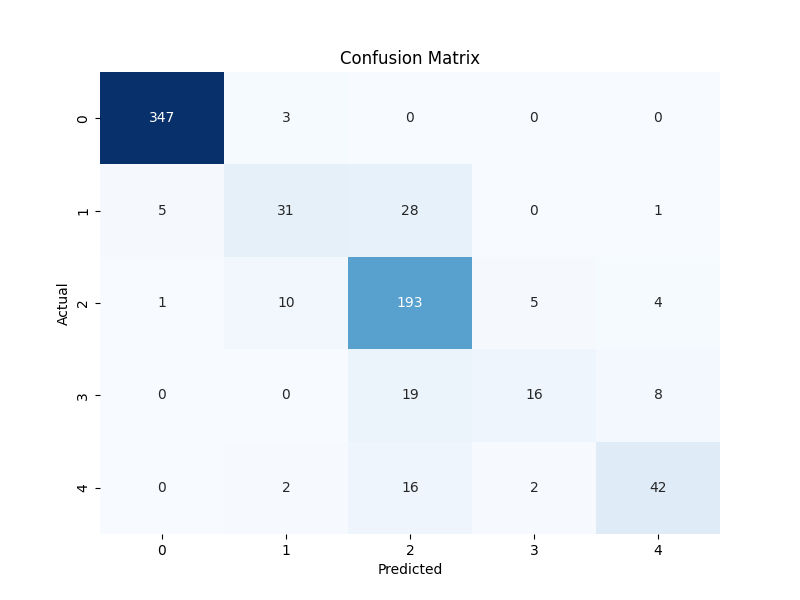
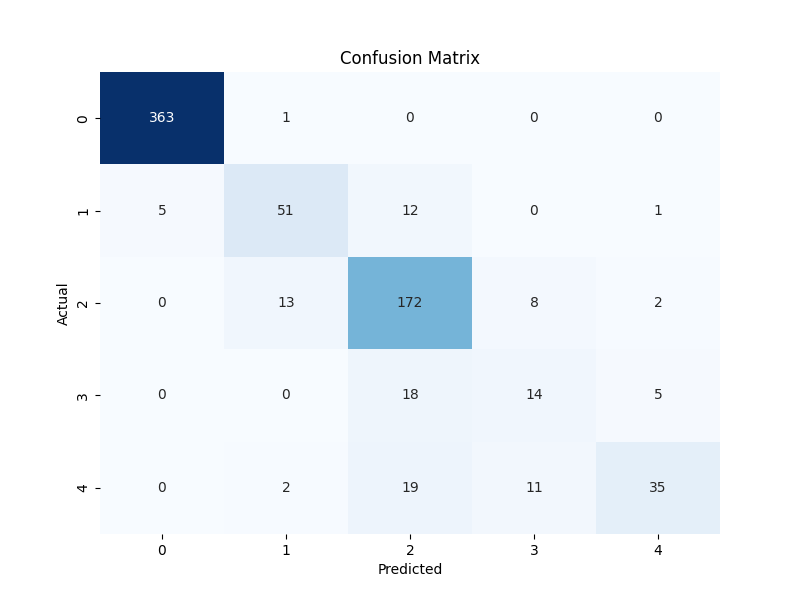
LAST

diff --git a/scripts/ensemble_predictions.py b/scripts/ensemble_predictions.py
@@ -1,0 +1,214 @@
+#!/usr/bin/env python3
+"""
+Ensemble predictions from multiple fold models.
+Supports both averaging probabilities and applying optimized thresholds.
+
+Usage:
+    poetry run python scripts/ensemble_predictions.py [--test]
+"""
+import argparse
+import os
+import json
+from pathlib import Path
+
+import numpy as np
+import pandas as pd
+import keras
+from tqdm import tqdm
+from scipy.optimize import minimize
+from sklearn.metrics import cohen_kappa_score
+
+from src.inference import load_and_preprocess, tta_predict
+# Import custom layers/losses so they're registered before model loading
+from src.models import layers  # noqa: F401 - registers GeMPooling2D, ScaleLayer
+from src.models import losses  # noqa: F401 - registers CategoricalFocalCrossentropy
+
+
+def optimize_thresholds(y_true, y_pred_proba):
+    """
+    Optimize decision thresholds for ordinal classification.
+    Converts probabilities to expected value, then finds optimal cutoffs.
+    """
+    # Convert probabilities to expected value (ordinal score)
+    ordinal_scores = np.sum(y_pred_proba * np.arange(5), axis=1)
+    
+    def neg_qwk(thresholds):
+        thresholds = np.sort(thresholds)
+        preds = np.digitize(ordinal_scores, thresholds)
+        return -cohen_kappa_score(y_true, preds, weights='quadratic')
+    
+    # Initial thresholds (evenly spaced)
+    init_thresholds = [0.5, 1.5, 2.5, 3.5]
+    
+    result = minimize(
+        neg_qwk,
+        init_thresholds,
+        method='Nelder-Mead',
+        options={'maxiter': 1000}
+    )
+    
+    return np.sort(result.x), -result.fun
+
+
+def load_oof_predictions(output_dir: Path, n_folds: int = 5):
+    """Load and combine OOF predictions from all folds."""
+    all_oof = []
+    
+    for fold in range(n_folds):
+        fold_dir = output_dir / f"fold_{fold}"
+        oof_path = fold_dir / "oof.csv"
+        
+        if not oof_path.exists():
+            print(f"⚠ Missing OOF for fold {fold}: {oof_path}")
+            continue
+        
+        oof_df = pd.read_csv(oof_path)
+        oof_df['fold'] = fold
+        all_oof.append(oof_df)
+    
+    if not all_oof:
+        raise FileNotFoundError("No OOF predictions found!")
+    
+    return pd.concat(all_oof, ignore_index=True)
+
+
+def ensemble_test_predictions(
+    output_dir: Path,
+    test_csv: str,
+    test_images: str,
+    image_size: int = 512,
+    use_tta: bool = True,
+    n_folds: int = 5
+):
+    """Generate ensemble predictions on test set."""
+    test_df = pd.read_csv(test_csv)
+    print(f"Found {len(test_df)} test samples")
+    
+    # Load all fold models
+    models = []
+    for fold in range(n_folds):
+        model_path = output_dir / f"fold_{fold}" / "model_best.keras"
+        if model_path.exists():
+            print(f"Loading model from {model_path}")
+            models.append(keras.models.load_model(
+                model_path,
+                custom_objects={
+                    'GeMPooling2D': layers.GeMPooling2D,
+                    'ScaleLayer': layers.ScaleLayer,
+                    'CategoricalFocalCrossentropy': losses.CategoricalFocalCrossentropy,
+                    'KappaLoss': losses.KappaLoss,
+                }
+            ))
+        else:
+            print(f"⚠ Missing model for fold {fold}")
+    
+    if not models:
+        raise FileNotFoundError("No models found!")
+    
+    print(f"Loaded {len(models)} models for ensemble")
+    
+    # Predict
+    all_preds = []
+    
+    for idx, row in tqdm(test_df.iterrows(), total=len(test_df), desc="Predicting"):
+        img_path = os.path.join(test_images, f"{row['id_code']}.png")
+        
+        if not os.path.exists(img_path):
+            print(f"⚠ Image not found: {img_path}")
+            all_preds.append(np.zeros(5))
+            continue
+        
+        img = load_and_preprocess(img_path, image_size, use_ben_graham=True)
+        img = np.expand_dims(img, axis=0)
+        
+        # Average predictions from all models
+        fold_preds = []
+        for model in models:
+            if use_tta:
+                pred = tta_predict(model, img, n_augments=8)
+            else:
+                pred = model.predict(img, verbose=0)
+            fold_preds.append(pred)
+        
+        avg_pred = np.mean(fold_preds, axis=0)
+        all_preds.append(avg_pred.flatten())
+    
+    return test_df['id_code'].values, np.array(all_preds)
+
+
+def main():
+    parser = argparse.ArgumentParser(description="Ensemble predictions")
+    parser.add_argument("--output_dir", type=str, default="outputs", help="Directory with fold outputs")
+    parser.add_argument("--test", action="store_true", help="Generate test predictions (requires test images)")
+    parser.add_argument("--test_csv", type=str, default="data/test.csv")
+    parser.add_argument("--test_images", type=str, default="data/test_images")
+    parser.add_argument("--image_size", type=int, default=512)
+    parser.add_argument("--no_tta", action="store_true", help="Disable TTA for faster inference")
+    args = parser.parse_args()
+    
+    output_dir = Path(args.output_dir)
+    
+    # Step 1: Load OOF predictions and optimize thresholds
+    print("\n" + "=" * 60)
+    print("STEP 1: Loading OOF predictions and optimizing thresholds")
+    print("=" * 60)
+    
+    oof_df = load_oof_predictions(output_dir)
+    print(f"Loaded {len(oof_df)} OOF predictions")
+    
+    # Extract probability columns if present
+    prob_cols = [col for col in oof_df.columns if col.startswith('prob_')]
+    
+    if prob_cols:
+        y_true = oof_df['diagnosis'].values
+        y_pred_proba = oof_df[prob_cols].values
+        
+        thresholds, qwk = optimize_thresholds(y_true, y_pred_proba)
+        print(f"\n📊 Optimized Thresholds: {thresholds}")
+        print(f"📊 OOF QWK with optimized thresholds: {qwk:.4f}")
+        
+        # Save thresholds
+        with open("thresholds.json", "w") as f:
+            json.dump({"thresholds": thresholds.tolist(), "qwk": qwk}, f, indent=2)
+        print("✅ Saved thresholds to thresholds.json")
+    else:
+        print("⚠ No probability columns found in OOF. Using argmax.")
+        thresholds = None
+    
+    # Step 2: Generate test predictions if requested
+    if args.test:
+        print("\n" + "=" * 60)
+        print("STEP 2: Generating ensemble test predictions")
+        print("=" * 60)
+        
+        id_codes, test_proba = ensemble_test_predictions(
+            output_dir,
+            args.test_csv,
+            args.test_images,
+            args.image_size,
+            use_tta=not args.no_tta
+        )
+        
+        # Apply thresholds or argmax
+        if thresholds is not None:
+            ordinal_scores = np.sum(test_proba * np.arange(5), axis=1)
+            predictions = np.digitize(ordinal_scores, thresholds)
+        else:
+            predictions = np.argmax(test_proba, axis=1)
+        
+        # Create submission
+        submission = pd.DataFrame({
+            'id_code': id_codes,
+            'diagnosis': predictions
+        })
+        submission.to_csv("submission.csv", index=False)
+        print(f"\n✅ Saved submission to submission.csv")
+        print(f"Prediction distribution: {pd.Series(predictions).value_counts().sort_index().to_dict()}")
+    
+    print("\n" + "=" * 60)
+    print("✅ ENSEMBLE COMPLETE")
+    print("=" * 60)
+
+
+if __name__ == "__main__":
+    main()

diff --git a/src/training/trainer.py b/src/training/trainer.py
@@ -293,38 +293,44 @@ class Trainer:
         # Save OOF Predictions
         print("Generating OOF predictions...")
         val_labels = []
-        val_preds_raw = []
+        val_preds_proba = []  # Full probability distributions
 
-        # Iterate to get labels and images
+        # Iterate to get labels and predictions
         for images, labels in val_ds:
             preds = self.model.predict(images, verbose=0)
             
-            # Labels: scalar for regression, one-hot for classification
             if is_regression:
                 val_labels.extend(labels.numpy().astype(int))
-                val_preds_raw.extend(preds.flatten())
+                val_preds_proba.extend(preds.flatten())
             else:
                 val_labels.extend(np.argmax(labels.numpy(), axis=-1))
-                val_preds_raw.extend(np.argmax(preds, axis=-1))
+                val_preds_proba.extend(preds)  # Keep full probability vector
 
         val_labels = np.array(val_labels)
-        val_preds_raw = np.array(val_preds_raw)
+        val_preds_proba = np.array(val_preds_proba)
         
-        # Save raw predictions for threshold optimization
-        oof_df = pd.DataFrame({
-            'y_true': val_labels,
-            'y_pred': val_preds_raw
-        })
+        # Build OOF dataframe
+        if is_regression:
+            oof_df = pd.DataFrame({
+                'diagnosis': val_labels,
+                'pred_raw': val_preds_proba
+            })
+            val_preds_class = np.clip(np.rint(val_preds_proba), 0, 4).astype(int)
+        else:
+            # Save probabilities for each class (for threshold optimization)
+            oof_df = pd.DataFrame({
+                'diagnosis': val_labels,
+                'pred_class': np.argmax(val_preds_proba, axis=-1)
+            })
+            for i in range(5):
+                oof_df[f'prob_{i}'] = val_preds_proba[:, i]
+            val_preds_class = np.argmax(val_preds_proba, axis=-1)
+        
         oof_df.to_csv("oof.csv", index=False)
         print("Saved OOF predictions to oof.csv")
 
-        # Compute baseline QWK (simple rounding for regression, direct for classification)
-        if is_regression:
-            val_preds_baseline = np.clip(np.rint(val_preds_raw), 0, 4).astype(int)
-        else:
-            val_preds_baseline = val_preds_raw.astype(int)
-        
-        baseline_qwk = cohen_kappa_score(val_labels, val_preds_baseline, weights='quadratic')
+        # Compute baseline QWK
+        baseline_qwk = cohen_kappa_score(val_labels, val_preds_class, weights='quadratic')
         print(f"\n📊 Baseline QWK (simple rounding): {baseline_qwk:.4f}")
         
         # Threshold optimization (for regression mode)
@@ -392,7 +398,7 @@ class Trainer:
             # Use optimized predictions for confusion matrix
             val_preds_final = val_preds_opt
         else:
-            val_preds_final = val_preds_baseline
+            val_preds_final = val_preds_class
 
         # Plot Confusion Matrix
         self.plot_confusion_matrix(val_labels, val_preds_final)

diff --git a/scripts/train_all_folds.py b/scripts/train_all_folds.py
@@ -1,0 +1,71 @@
+#!/usr/bin/env python3
+"""
+Train model on all 5 folds sequentially.
+Each fold's best model is saved to outputs/fold_X/model_best.keras
+
+Usage:
+    poetry run python scripts/train_all_folds.py
+"""
+import os
+import subprocess
+import sys
+import shutil
+from pathlib import Path
+
+
+def main():
+    n_folds = 5
+    base_output_dir = Path("outputs")
+    base_output_dir.mkdir(exist_ok=True)
+    
+    print("=" * 60)
+    print("5-FOLD CROSS-VALIDATION TRAINING")
+    print("=" * 60)
+    
+    for fold in range(n_folds):
+        fold_dir = base_output_dir / f"fold_{fold}"
+        fold_dir.mkdir(exist_ok=True)
+        
+        print(f"\n{'='*60}")
+        print(f"TRAINING FOLD {fold + 1}/{n_folds}")
+        print(f"Output directory: {fold_dir}")
+        print(f"{'='*60}\n")
+        
+        # Run training with fold override
+        cmd = [
+            "poetry", "run", "python", "-m", "src.train",
+            "experiment=production",
+            f"train.fold={fold}",
+            f"hydra.run.dir={fold_dir}"
+        ]
+        
+        result = subprocess.run(cmd, cwd=os.getcwd())
+        
+        if result.returncode != 0:
+            print(f"❌ Fold {fold} failed with return code {result.returncode}")
+            sys.exit(1)
+        
+        # Copy best model to fold directory
+        best_model = Path("model_best.keras")
+        if best_model.exists():
+            dest = fold_dir / "model_best.keras"
+            shutil.copy(best_model, dest)
+            print(f"✅ Saved best model to {dest}")
+        
+        # Copy OOF predictions
+        oof_file = Path("oof.csv")
+        if oof_file.exists():
+            dest = fold_dir / "oof.csv"
+            shutil.copy(oof_file, dest)
+            print(f"✅ Saved OOF predictions to {dest}")
+    
+    print("\n" + "=" * 60)
+    print("✅ ALL FOLDS COMPLETED SUCCESSFULLY")
+    print("=" * 60)
+    print("\nNext steps:")
+    print("  1. Run: make ensemble")
+    print("  2. Run: make submit-final")
+
+
+if __name__ == "__main__":
+    main()

diff --git a/src/models/losses.py b/src/models/losses.py
@@ -1,6 +1,8 @@
 import tensorflow as tf
+import keras
 
 
+@keras.saving.register_keras_serializable()
 class KappaLoss(tf.keras.losses.Loss):
     """
     A differentiable approximation of the Quadratic Weighted Kappa.
@@ -38,14 +40,15 @@ class KappaLoss(tf.keras.losses.Loss):
         return tf.reduce_mean(tf.square(y_true - y_pred))
 
 
+@keras.saving.register_keras_serializable(name="CategoricalFocalCrossentropy")
 class CategoricalFocalCrossentropy(tf.keras.losses.Loss):
     """
     Categorical Focal Crossentropy Loss.
     References:
         - [Focal Loss for Dense Object Detection](https://arxiv.org/abs/1708.02002)
     """
-    def __init__(self, alpha=0.25, gamma=2.0, from_logits=False, label_smoothing=0.0, name='focal_loss'):
-        super().__init__(name=name)
+    def __init__(self, alpha=0.25, gamma=2.0, from_logits=False, label_smoothing=0.0, name='focal_loss', **kwargs):
+        super().__init__(name=name, **kwargs)
         self.alpha = alpha
         self.gamma = gamma
         self.from_logits = from_logits

diff --git a/README.md b/README.md
@@ -1,3 +1,5 @@
 cd && cd Documents/Code/Project/ju && make train-test
 
 cd && cd Documents/CODE/juju && make train-prod
+
+cd && cd Documents/CODE/juju && make train-cv
